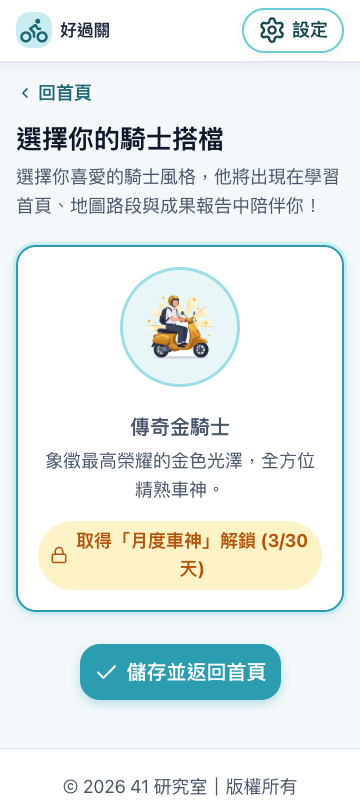
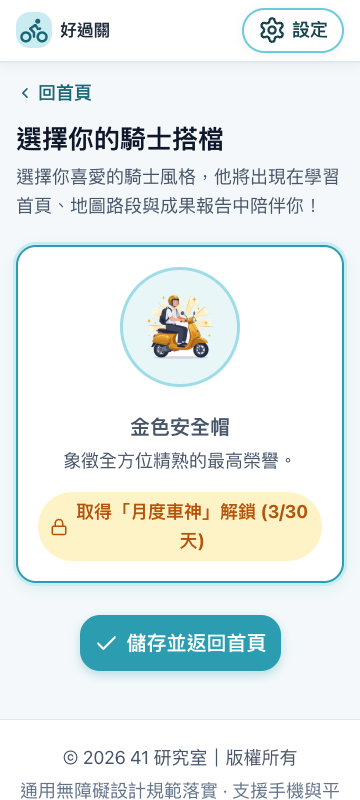
[agy] 依實際圖片特徵校正角色名稱與設定 (rider-1~6)

Changed region(s): [[0.0306, 0.5, 0.9778, 0.9062], [0.0611, 0.9375, 0.9472, 1.0]]

diff --git a/site/js/character.js b/site/js/character.js
@@ -15,12 +15,12 @@
   };
 
   var CHARACTERS_META = {
-    'rider-1': { name: '藍色安全帽騎士', desc: '穩健出發的實力搭檔。' },
-    'rider-2': { name: '粉色安全帽騎士', desc: '細心觀察的敏銳搭檔。' },
-    'rider-3': { name: '黃色安全帽騎士', desc: '充滿活力的專注搭檔。' },
-    'rider-4': { name: '紅色安全帽騎士', desc: '勇敢前行的果決搭檔。' },
-    'rider-5': { name: '綠色安全帽騎士', desc: '堅持一週不懈的騎士榮譽。', lockDesc: '取得「一週騎士」解鎖' },
-    'rider-6': { name: '金色安全帽騎士', desc: '象徵全方位精熟的最高榮譽。', lockDesc: '取得「月度車神」解鎖' }
+    'rider-1': { name: '淺藍安全帽男生', desc: '穩健出發的實力搭檔。' },
+    'rider-2': { name: '黃色安全帽綁馬尾女生', desc: '充滿活力的專注搭檔。' },
+    'rider-3': { name: '綠色安全帽短髮男生', desc: '沈著冷靜的敏銳搭檔。' },
+    'rider-4': { name: '粉紅安全帽戴眼鏡女生', desc: '細心觀察的聰穎搭檔。' },
+    'rider-5': { name: '紅色安全帽火焰', desc: '堅持一週不懈的騎士榮譽。', lockDesc: '取得「一週騎士」解鎖' },
+    'rider-6': { name: '金色安全帽', desc: '象徵全方位精熟的最高榮譽。', lockDesc: '取得「月度車神」解鎖' }
   };
 
   function el(tag, cls, text) {

diff --git a/design/screen-character.html b/design/screen-character.html
@@ -60,11 +60,11 @@
       <!-- 6 位騎士角色網格 -->
       <section class="character-grid" aria-label="騎士角色選擇清單">
 
-        <!-- 角色 1：活力藍 (目前選用中) -->
+        <!-- 角色 6：金色安全帽 -->
         <div class="character-card is-active" tabindex="0" role="radio" aria-checked="true">
-          <div class="character-avatar-box"><img src="../site/assets/illustrations/rider-6.png" alt="傳奇金騎士" style="width: 72px; height: 72px; object-fit: contain;"></div>
-          <h2 class="character-name" style="margin-top: 8px; color: var(--color-slate-600);">傳奇金騎士</h2>
-          <p class="character-desc">象徵最高榮耀的金色光澤，全方位精熟車神。</p>
+          <div class="character-avatar-box"><img src="../site/assets/illustrations/rider-6.png" alt="金色安全帽" style="width: 72px; height: 72px; object-fit: contain;"></div>
+          <h2 class="character-name" style="margin-top: 8px; color: var(--color-slate-600);">金色安全帽</h2>
+          <p class="character-desc">象徵全方位精熟的最高榮譽。</p>
           <div class="character-unlock-badge">
             <svg class="icon icon-sm" viewBox="0 0 24 24"><rect width="18" height="11" x="3" y="11" rx="2" ry="2"/><path d="M7 11V7a5 5 0 0 1 10 0v4"/></svg>
             <span>取得「月度車神」解鎖 (3/30天)</span>

diff --git a/design/README.md b/design/README.md
@@ -345,4 +345,27 @@ design/
      - 禁用詞彙掃描 0 筆。
 - **下一棒：** 提交 commit 並產出交接提示詞供 Claude Cowork 接手。
 
+### 角色名稱依真實圖片校正（2026-10-24）
+- **執行角色：** Antigravity（Gemini）
+- **完成項目與設計決策：**
+  1. **實檢 6 張角色插畫：**
+     - 逐一實物檢視 `site/assets/illustrations/rider-1.png` 至 `rider-6.png`。
+     - rider-1：白上衣、淺藍安全帽男生、淺藍速克達。
+     - rider-2：白上衣、黃色安全帽綁馬尾女生、黃色速克達。
+     - rider-3：白上衣、綠色安全帽短髮男生、綠色速克達。
+     - rider-4：白上衣、粉紅安全帽戴眼鏡女生、白色速克達。
+     - rider-5：紅色安全帽男生、身後火焰特效（一週騎士解鎖）。
+     - rider-6：金色安全帽男生、周圍金色光芒與星芒（月度車神解鎖）。
+  2. **修正 site/js/character.js 與 design/screen-character.html：**
+     - 修正 `CHARACTERS_META`，嚴格對齊圖片真實特徵：
+       - `rider-1`：淺藍安全帽男生
+       - `rider-2`：黃色安全帽綁馬尾女生
+       - `rider-3`：綠色安全帽短髮男生
+       - `rider-4`：粉紅安全帽戴眼鏡女生
+       - `rider-5`：紅色安全帽火焰（一週騎士解鎖）
+       - `rider-6`：金色安全帽（月度車神解鎖）
+  3. **自動化驗證：**
+     - `node design/check-screens.mjs` 88 項測試 100% 通過。
+     - 禁用詞彙掃描 0 筆。
+
 
